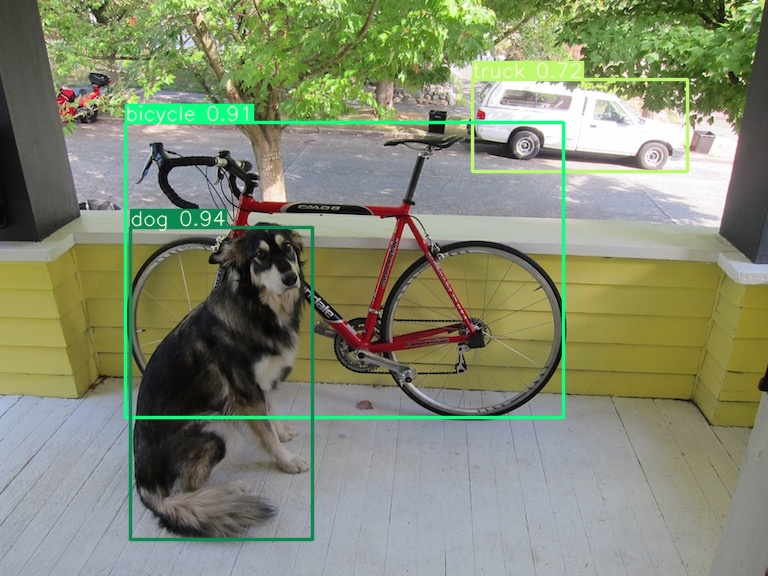
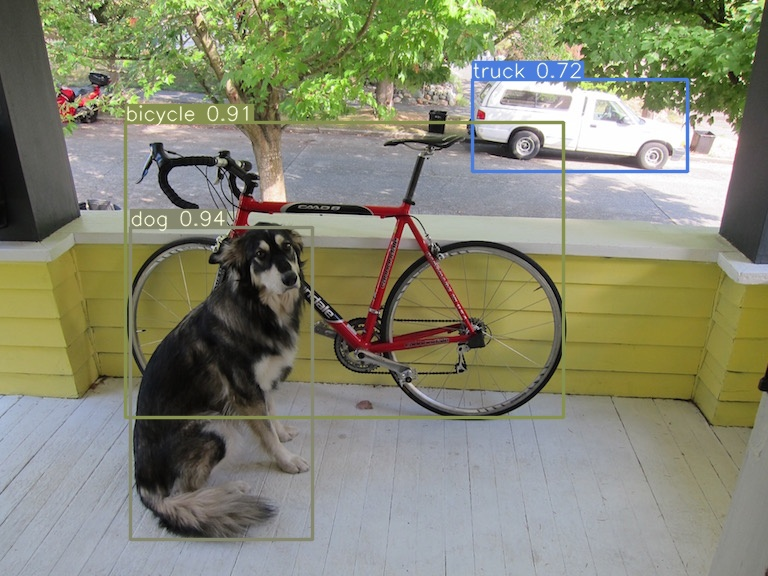
fix replace opencv-python-headless with opencv-python for cross-platform video inference support

Changed region(s): [[0.1562, 0.0938, 0.9062, 0.9688]]

diff --git a/README.md b/README.md
@@ -181,4 +181,8 @@ PYTHONPATH=. python3 ./tools/inference.py ./data/video.mp4 \
 ```
 
 Output is saved under `--output` (e.g. `./results/inference/video/video.mp4`).
-**If running video inference in Docker:** and video won’t open, install `opencv-python-headless` with FFMPEG see optional line in `requirements.txt` (you might need to uninstall opencv and then install opencv-python-headless for a clean installation).
+
+**If image or video inference is not working:** make sure `opencv-python` is installed:
+```bash
+pip install opencv-python
+```
